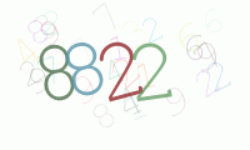
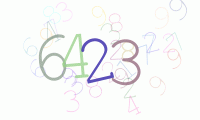
main 2

diff --git a/modern_parcel/parcel.py b/modern_parcel/parcel.py
@@ -14,58 +14,41 @@ class Parse_Chrome():
 
         self._link_to_solve = link_to_solve
         self._link_img_converter = link_img_convert_to_text
-        self.__driver = webdriver.Chrome()
+        self._driver = webdriver.Chrome()
 
-    class Img():
-
-        def __init__(self, raw_img_store_directory, enh_img_store_directory):
-
-            self._RISTD = raw_img_store_directory #'modern_parcel/pics/secpic_raw.png'
-            self._EISTD = enh_img_store_directory #'modern_parcel/pics/enhpic.png'
-
-        def get_screenshot(self) -> None:
-
-            self.__driver.get(f'{self._link_to_solve}')
-
-            image = self.__driver.find_element(By.XPATH, '//*[@id="capcher"]')
-            image.screenshot(f'{self._RISTD}')
-            print(f'raw image saved to {self._RISTD}')
-            time.sleep(10)
-
-        def enhance_img(self) -> str:
-
-            enhance_pic(path=f'{self._RISTD}', save_directory=f'{self._EISTD}' ) 
-            input_text = get_text_of_img(path=f'{self._EISTD}')
-            print(f'enhanced image saved to {self._EISTD}')
-
-            return input_text
-
-    class Mask():
-            
-        def User_Agent_Mask(href: str) -> Options:
-
-            options = Options()
-            options.add_argument('--user-agent=Semen/4.0 (Windows NT 7.0; Win32; x32) AppleWebkit/1 (KHTML, like Gecko) Shrone/192.168.9.0 Plateau/12.10')
-
-            return options
+    def get_screenshot(self, RISTD) -> None:
     
-        def Proxy_Mask(href: str) -> Options:
-    
-            options = Options()
-            options.add_argument(f'--proxy-server=https://nullsproxy.com/')
-    
-            return options
-            
-    def input_keys(self) -> None:
+        self._driver.get(f'{self._link_to_solve}')
 
-        text_input_zone = self.__driver.find_element(By.ID, 'cap_field')
-        text_input_zone.send_keys(self.enhance_img())
+        image = self._driver.find_element(By.XPATH, '//*[@id="capcher"]')
+        image.screenshot(f'{RISTD}')
+        print(f'raw image saved to {RISTD}')
+        time.sleep(10)
+    
+    def enhance_img(self, RISTD, EISTD) -> str:
+
+        enhance_pic(path=f'{RISTD}', save_directory=f'{EISTD}' ) 
+        input_text = get_text_of_img(path=f'{EISTD}')
+        print(f'enhanced image saved to {EISTD}')
+
+        return input_text
+
+    def User_Agent_Mask(href: str) -> Options:
+
+        options = Options()
+        options.add_argument('--user-agent=Semen/4.0 (Windows NT 7.0; Win32; x32) AppleWebkit/1 (KHTML, like Gecko) Shrone/192.168.9.0 Plateau/12.10')
+        options.add_argument(f'--proxy-server=https://nullsproxy.com/')
+        return options
+
+    def input_keys(self, input_text) -> None:
+
+        text_input_zone = self._driver.find_element(By.ID, 'cap_field')
+
+        text_input_zone.send_keys(input_text)
         time.sleep(10)
 
     def __del__(self) -> None:
 
-        os.remove(f'{self._RISTD}')
-        os.remove(f'{self._EISTD}')
-        self.__driver.quit()
+        self._driver.quit()
 
 #solve_captcha('https://issaold.beltelecom.by/main.html')

diff --git a/modern_parcel/main.py b/modern_parcel/main.py
@@ -1,15 +1,23 @@
 from parcel import Parse_Chrome
 
-parse = Parse_Chrome(
-    link_to_solve='https://issaold.beltelecom.by/main.html',
-    link_img_convert_to_text='https://www.prepostseo.com/ru/image-to-text'
-)
+def main():
 
-captcha_pic = parse.Img(
-    raw_img_store_directory='modern_parcel/pics/secpic_raw.png',
-    enh_img_store_directory='modern_parcel/pics/enhpic.png'
-)
+    parse = Parse_Chrome(
+        link_to_solve='https://issaold.beltelecom.by/main.html',
+        link_img_convert_to_text='https://www.prepostseo.com/ru/image-to-text'
+    )
 
-captcha_pic.get_screenshot()
-captcha_pic.enhance_img()
+    parse.get_screenshot(
+        RISTD='modern_parcel/pics/secpic_raw.png'
+        )
+    
+    input = parse.enhance_img(
+        RISTD='modern_parcel/pics/secpic_raw.png',
+        EISTD='modern_parcel/pics/enhpic.png'
+        )
+    
+    parse.input_keys(input_text=input)
 
+if __name__ == '__main__':
+
+    main()
